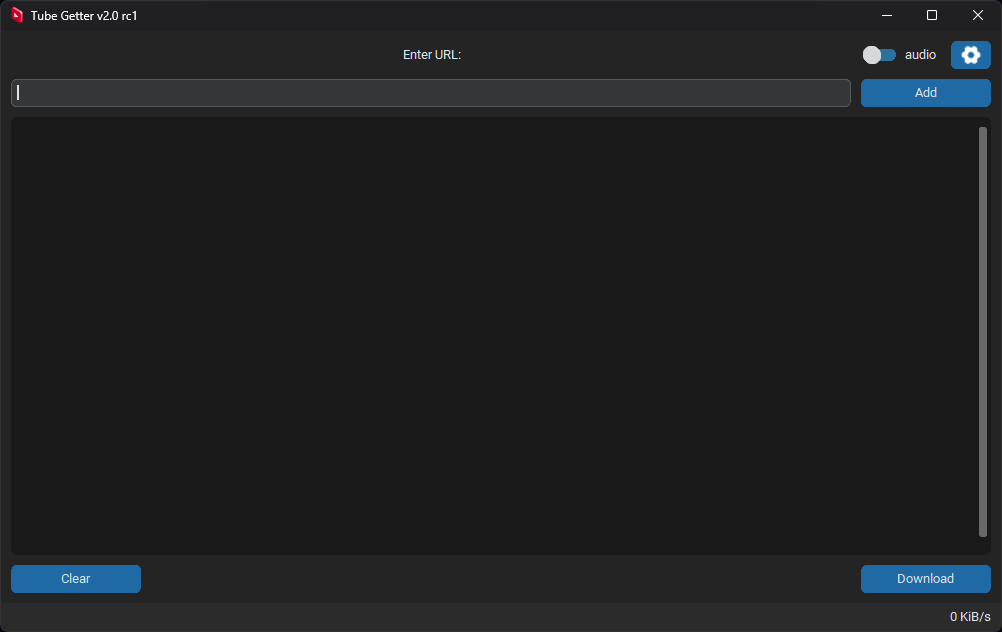
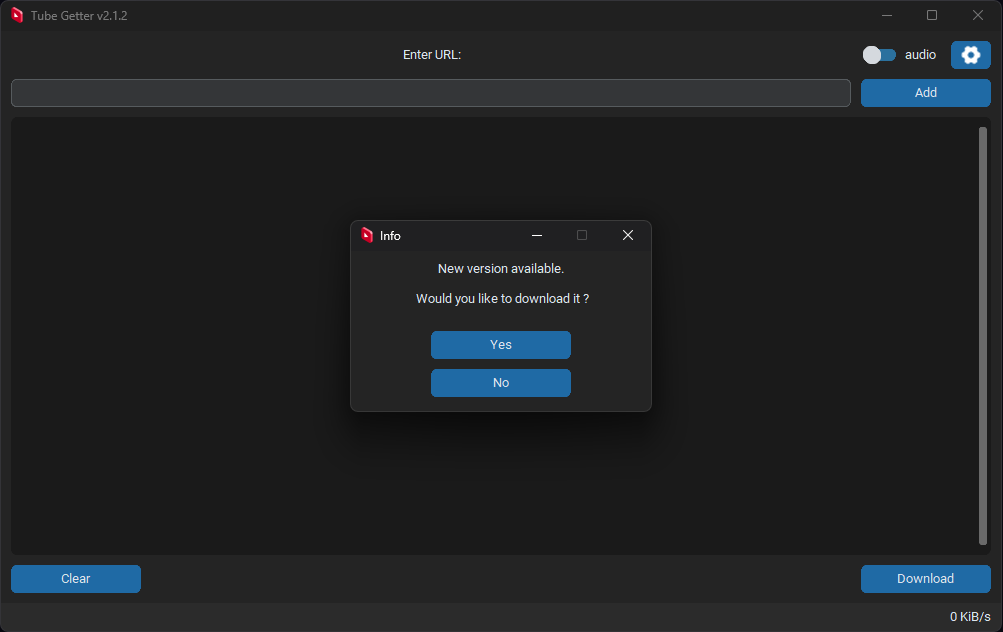
Update to v2.1.2

diff --git a/src/config.py b/src/config.py
@@ -1,15 +1,13 @@
 from src.resource_path import resource_path
 
 
-VERSION = '2.1.1'
+VERSION = '2.1.2'
 
 IMG_PATHS = {
     'icon': resource_path('images/yt3d.ico'),
     'icon_png': resource_path('images/yt3d.png'),
     'settings': resource_path('images/setting.png'),
     'github': resource_path('images/github.png'),
-    'switch_left': resource_path('images/switch_left.png'),
-    'switch_right': resource_path('images/switch_right.png'),
     'clock': resource_path('images/clock.png'),
     'eye': resource_path('images/webcam.png'),
     'calendar': resource_path('images/calendar.png'),

diff --git a/README.md b/README.md
@@ -7,6 +7,7 @@
 
 ![](screenshots/screenshot_1.png)
 ![](screenshots/screenshot_2.png)
+![](screenshots/screenshot_3.png)
 
 ---
 Tube Getter is a Python application that allows you to download videos and audio from YouTube and BitChute.
@@ -22,10 +23,12 @@ It provides a simple user interface built with customtkinter, pychute and the py
 
 ## **Prerequisites**
 
-*   Python 3.x
-*   pytubefix
-*   customtkinter
-*   pillow
+* pytubefix
+* pychute
+* customtkinter
+* pillow
+* moviepy
+* beautifulsoup4
 
 
 ## **Installation**
@@ -44,7 +47,7 @@ Run the application:
 
 ### WINDOWS:
 
-Download `tube_getter.exe` from https://github.com/paichiwo/tube-getter/releases/tag/v2.1.1
+Download `tube_getter.exe` from https://github.com/paichiwo/tube-getter/releases/tag/v2.1.2
 
 Run the application. 
 
